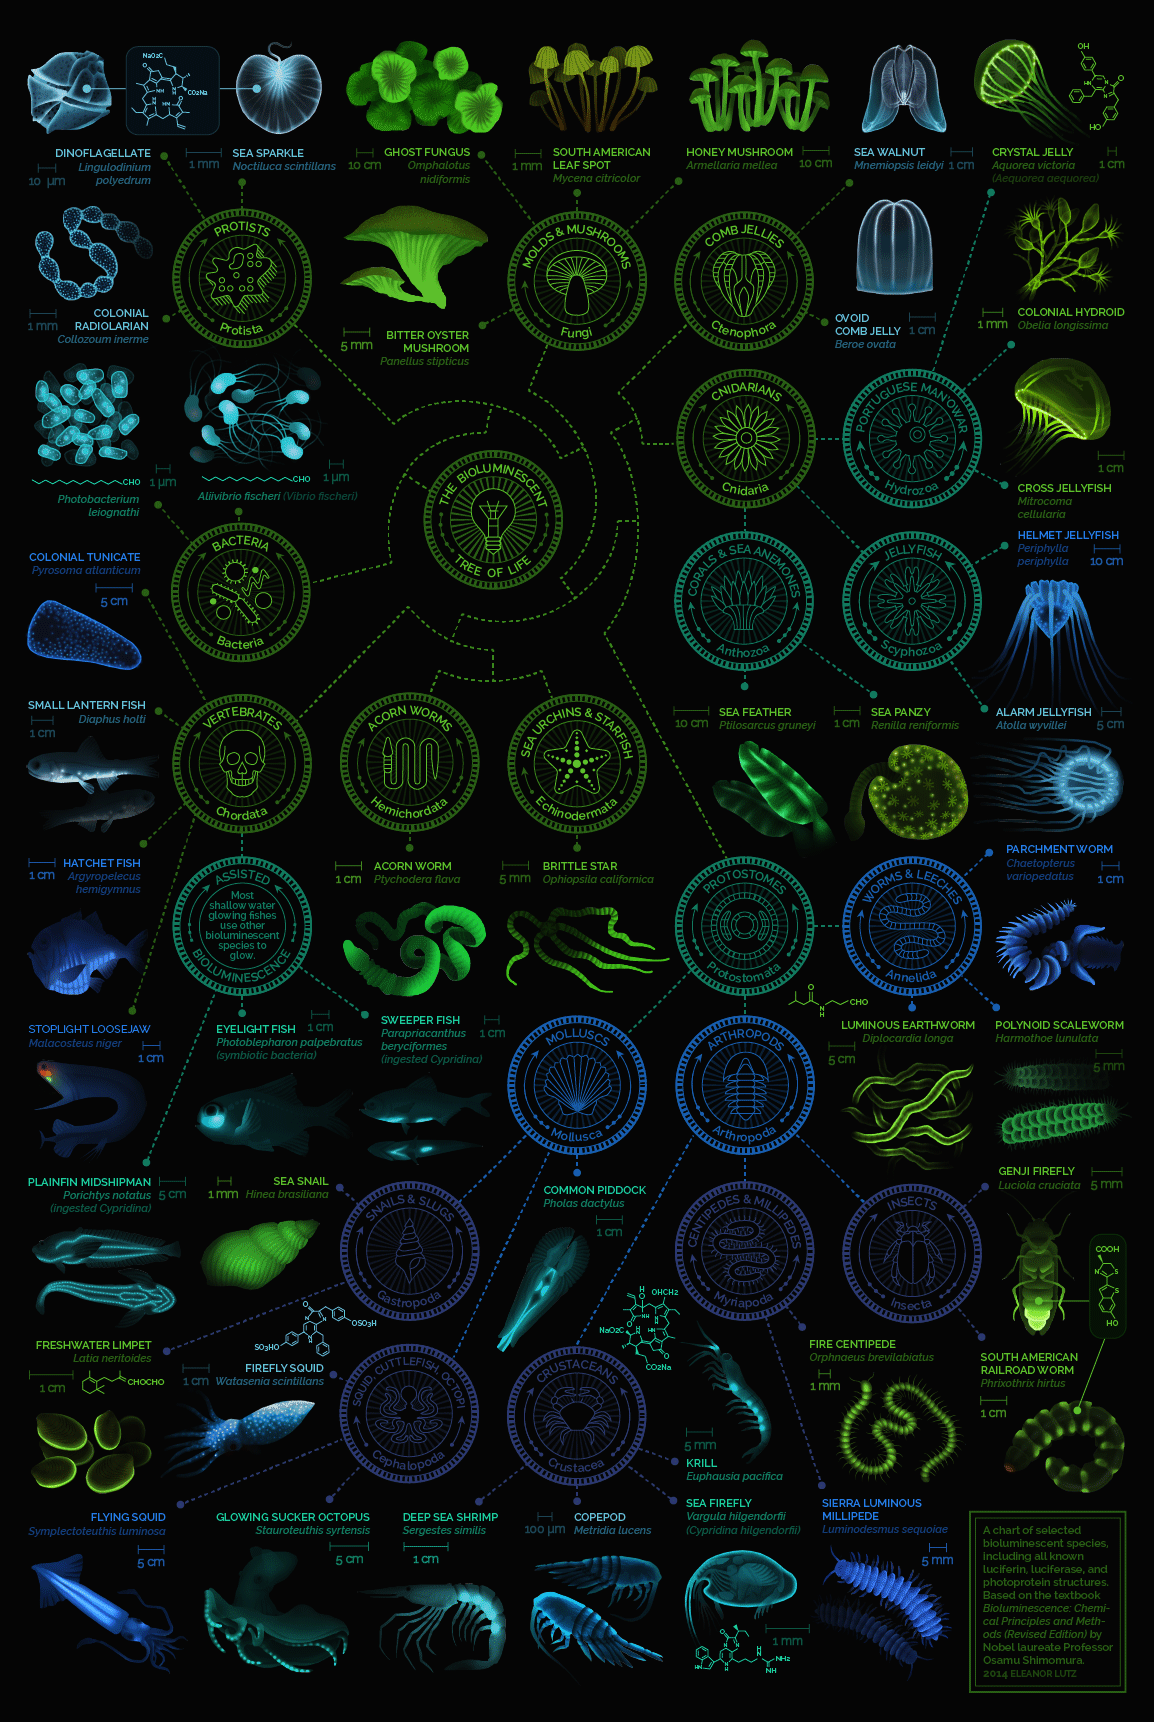
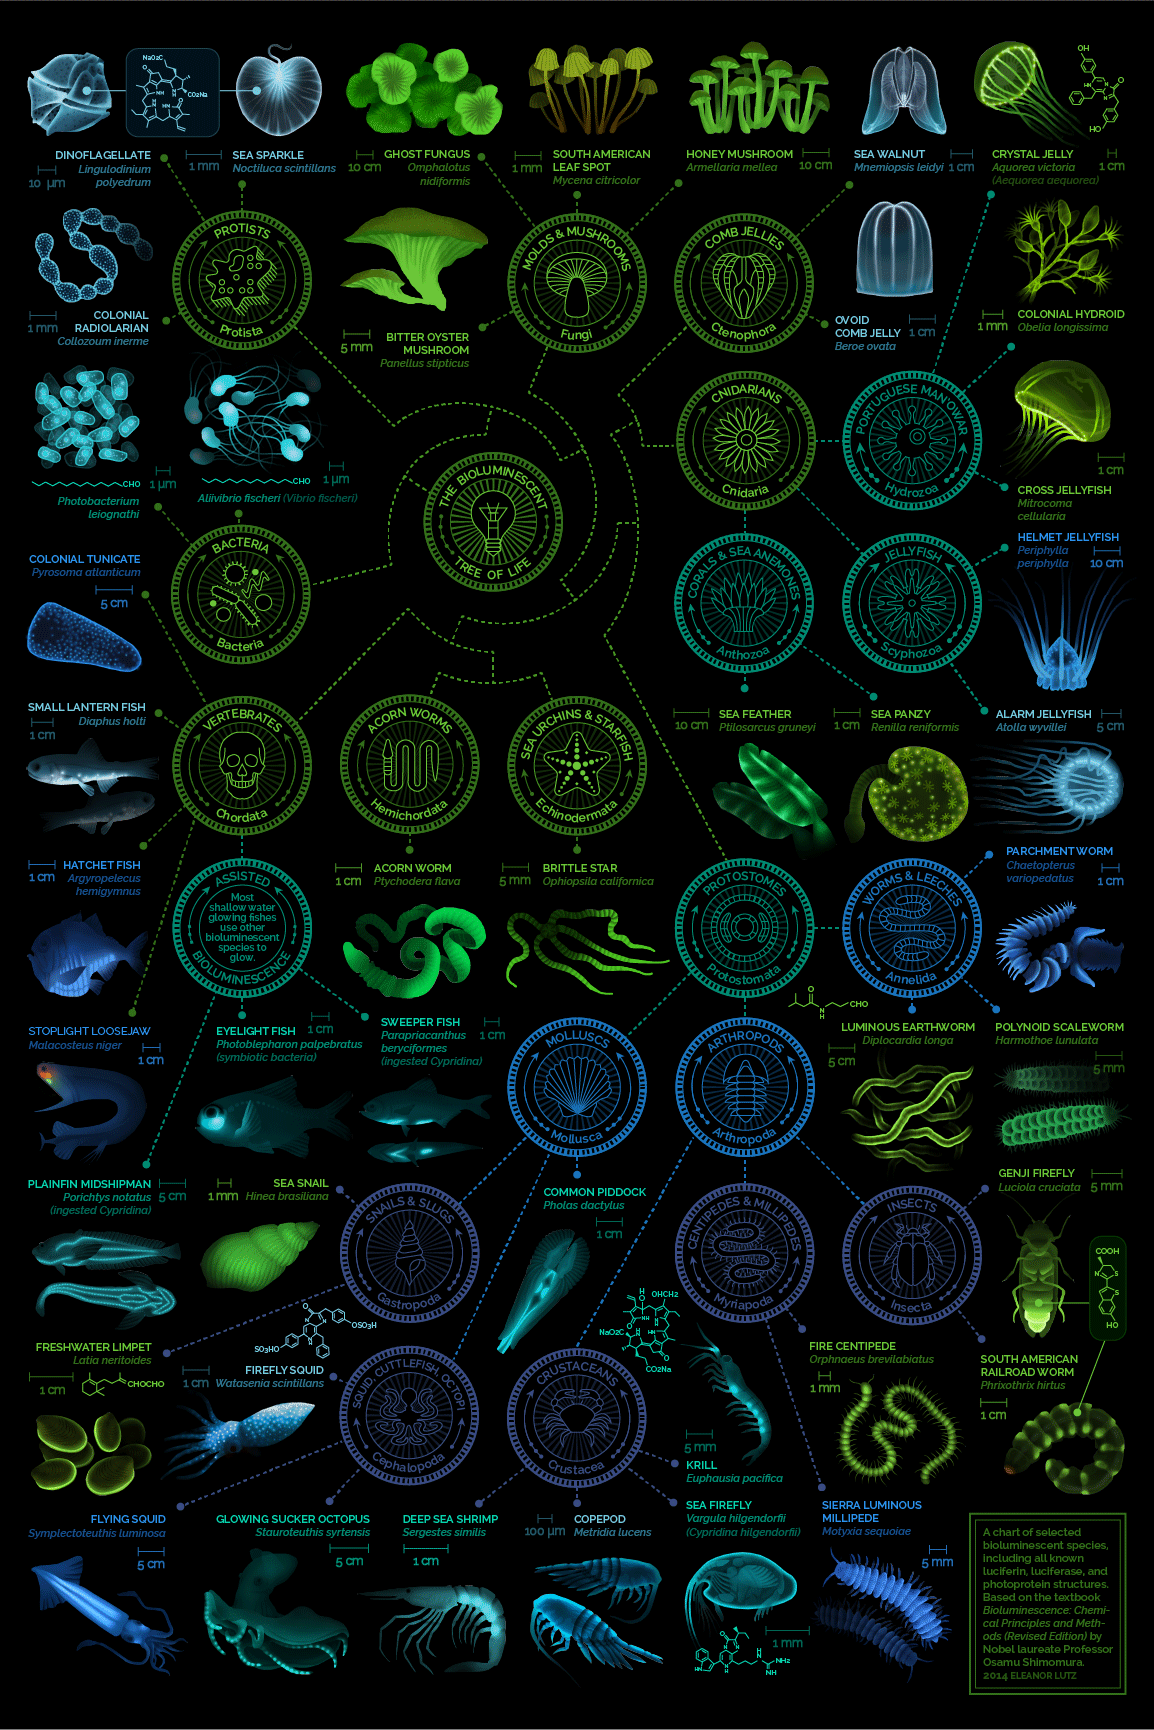
fix motyxia species

diff --git a/_site/2014/07/21/a-visual-compendium-of-glowing-creatures.html b/_site/2014/07/21/a-visual-compendium-of-glowing-creatures.html
@@ -75,7 +75,7 @@
 
 <p>Today&#39;s post diagrams a few of the most well studied bioluminescent organisms. Hope you enjoy it, and thanks for stopping by :)</p>
 
-<div> <img class="invisible-for-rss-only" src="/img/posts/07-21-14.jpg" /> </div>
+<div> <img class="invisible-for-rss-only" src="/img/posts/07-21-14.png" /> </div>
 
         </div>
         

diff --git a/_site/index.html b/_site/index.html
@@ -85,7 +85,7 @@
 
 <p>Today&#39;s post diagrams a few of the most well studied bioluminescent organisms. Hope you enjoy it, and thanks for stopping by :)</p>
 
-<div> <img class="invisible-for-rss-only" src="/img/posts/07-21-14.jpg" /> </div>
+<div> <img class="invisible-for-rss-only" src="/img/posts/07-21-14.png" /> </div>
 
         </div>
         
